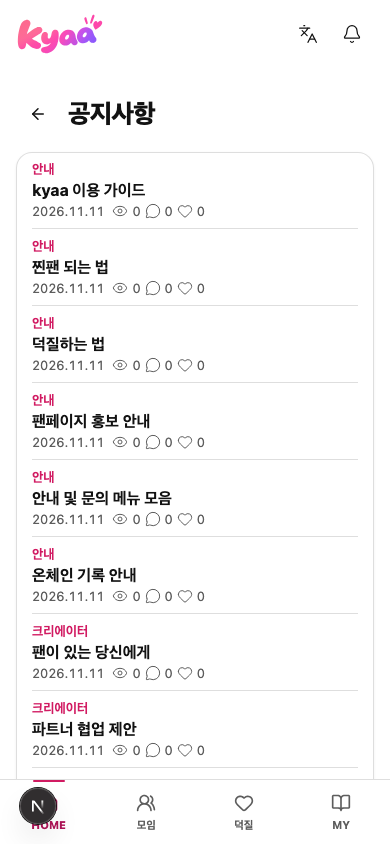
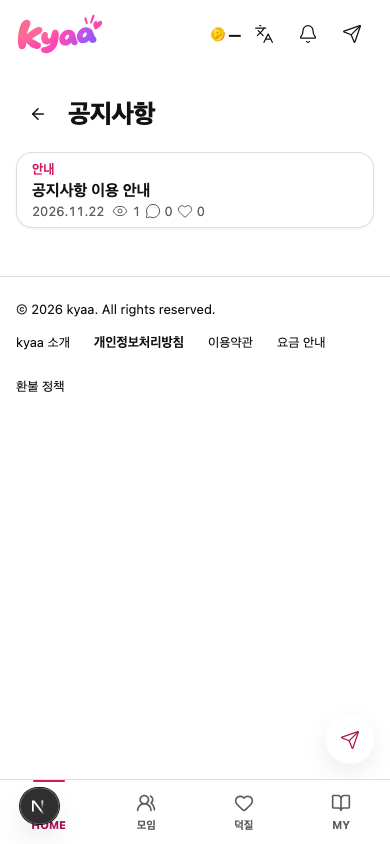
팬페이지 고정 공지의 수치 전달과 로컬 캡처 검증

diff --git a/apps/web/features/groups/ui/creator-group-home.tsx b/apps/web/features/groups/ui/creator-group-home.tsx
@@ -82,7 +82,7 @@ export function CreatorGroupHome({celebrity,locale,channelId,passportId,owned,on
   <section className={homeStyles.stories}>
    <header className={homeStyles.storiesHeader}><FanHeading>{fanStories[locale]}</FanHeading><FanSectionLink href={returnTo}>{viewAllText(locale)}</FanSectionLink></header>
    <div className={homeStyles.toolbar}><FanTabs variant='chip' label={fanStories[locale]} current={filter} items={filters}/><EarnBadgeCorner action='post' locale={locale}><FanAction href={writeHref} variant='primary' trailingIcon={<Pencil/>}>{m.write}</FanAction></EarnBadgeCorner></div>
-   {feed?<>{feed.items.length?<FanSurface as='div' appearance='list' className={homeStyles.rows}>{[...feed.items.filter(item=>item.kind==='notice'),...feed.items.filter(item=>item.kind!=='notice')].map(item=>{const row=itemView(item);return <FanPostRow key={`${item.kind}:${item.id}`} href={row.href} locale={locale} title={row.title||feedCopy(locale).readPost} thumbnail={thumbnailOf(item)} avatar={item.kind==='fan_post'?item.author.avatarUrl:item.kind==='cheer'?item.avatarUrl:undefined} avatarArtist={'artist' in row&&row.artist} pageImage={rowPageImage} notice={item.kind==='notice'} commentCount={row.count} author={row.name} authorTier={item.kind === "fan_post" ? item.author.tier : undefined} authorArtist={'artist' in row&&row.artist} reactedBy={item.kind==='fan_post'&&item.artistReacted?celebrity.name:undefined} time={row.date} density='home'/>;})}</FanSurface>:<FanState inline compact kind='empty' title={noPostsText(locale)}/>}{(feed.items.length>0||cursors.length>0||hasNext)&&<nav className={styles.creatorPagination} aria-label={t.more}><button type='button' aria-label={locale==='ko'?'이전 페이지':'Previous page'} disabled={!cursors.length} onClick={previous}><ChevronLeft size={18}/></button><button type='button' disabled={!cursors.length} onClick={previous}>{cursors.length||1}</button><span aria-current='page'>{cursors.length+1}</span>{hasNext&&<button type='button' onClick={next}>{cursors.length+2}</button>}<button type='button' aria-label={locale==='ko'?'다음 페이지':'Next page'} disabled={!hasNext} onClick={next}><ChevronRight size={18}/></button></nav>}</>:failed?<FanState inline compact kind='error' title={t.error} actions={<FanAction variant='text' onClick={()=>lanes.forEach(lane=>lane.retry())}>{t.retry}</FanAction>}/>:<FanSkeletonRows rows={5} variant='post'/>}
+   {feed?<>{feed.items.length?<FanSurface as='div' appearance='list' className={homeStyles.rows}>{[...feed.items.filter(item=>item.kind==='notice'),...feed.items.filter(item=>item.kind!=='notice')].map(item=>{const row=itemView(item);return <FanPostRow key={`${item.kind}:${item.id}`} href={row.href} locale={locale} title={row.title||feedCopy(locale).readPost} thumbnail={thumbnailOf(item)} avatar={item.kind==='fan_post'?item.author.avatarUrl:item.kind==='cheer'?item.avatarUrl:undefined} avatarArtist={'artist' in row&&row.artist} pageImage={rowPageImage} notice={item.kind==='notice'} commentCount={row.count} likes={item.kind==='notice'?item.likeCount:undefined} views={item.kind==='notice'?item.viewCount:undefined} author={row.name} authorTier={item.kind === "fan_post" ? item.author.tier : undefined} authorArtist={'artist' in row&&row.artist} reactedBy={item.kind==='fan_post'&&item.artistReacted?celebrity.name:undefined} time={row.date} density='home'/>;})}</FanSurface>:<FanState inline compact kind='empty' title={noPostsText(locale)}/>}{(feed.items.length>0||cursors.length>0||hasNext)&&<nav className={styles.creatorPagination} aria-label={t.more}><button type='button' aria-label={locale==='ko'?'이전 페이지':'Previous page'} disabled={!cursors.length} onClick={previous}><ChevronLeft size={18}/></button><button type='button' disabled={!cursors.length} onClick={previous}>{cursors.length||1}</button><span aria-current='page'>{cursors.length+1}</span>{hasNext&&<button type='button' onClick={next}>{cursors.length+2}</button>}<button type='button' aria-label={locale==='ko'?'다음 페이지':'Next page'} disabled={!hasNext} onClick={next}><ChevronRight size={18}/></button></nav>}</>:failed?<FanState inline compact kind='error' title={t.error} actions={<FanAction variant='text' onClick={()=>lanes.forEach(lane=>lane.retry())}>{t.retry}</FanAction>}/>:<FanSkeletonRows rows={5} variant='post'/>}
    <CreatorBoardFooter searchLabel={t.search} onSearch={value=>{setCursors([]);setSearch(value.normalize('NFC'));}}/>
   </section>
   {!brand&&<BannerSlot slot='fanpage_second' locale={locale}/>}

diff --git a/apps/web/features/fan-posts/ui/compact-feed-pinned.test.tsx b/apps/web/features/fan-posts/ui/compact-feed-pinned.test.tsx
@@ -21,9 +21,9 @@ afterEach(() => { feedFixture.read = undefined; cleanup(); });
 const notices = (items: unknown[], all = true) => { groupResource.value = { data: { items, nextCursor: null }, error: false, loading: false }; return renderHook(() => useGroupBoardNotices(pageId, "ko", { all })).result.current.items; };
 
 it("reads active notices of the page from the existing posts API and links each to its detail", () => {
-  const rows = notices([notice]);
+  const rows = notices([{ ...notice, commentCount: 0, viewCount: 19, likeCount: 4 }]);
   expect(groupResource.url).toBe(`/api/groups/${pageId}/posts?category=notice&sort=recent&limit=3`);
-  expect(rows).toEqual([expect.objectContaining({ id: postId, title: "운영자 공지 제목", author: "운영자", href: `/pages/groups/${pageId}?locale=ko&tab=board&post=${postId}` })]);
+  expect(rows).toEqual([expect.objectContaining({ id: postId, commentCount: 0, viewCount: 19, likeCount: 4, title: "운영자 공지 제목", author: "운영자", href: `/pages/groups/${pageId}?locale=ko&tab=board&post=${postId}` })]);
 });
 
 it("returns nothing while loading, when empty, on failure and without a page id", () => {

diff --git a/apps/web/features/groups/ui/group-board-notices.ts b/apps/web/features/groups/ui/group-board-notices.ts
@@ -7,7 +7,12 @@ import {useGroupResource} from './use-group-resource';
 
 /** The posts API accepts limit 1-100 (default 30); a board shows at most this many operator notices above the feed. */
 export const BOARD_NOTICE_LIMIT=3;
-const noticesSchema=groupPostsSchema.extend({items:z.array(groupPostsSchema.shape.items.element.extend({commentCount:z.number().int().nonnegative().optional()}))});
+const optionalCount = z.number().int().nonnegative().optional();
+const noticesSchema = groupPostsSchema.extend({
+  items: z.array(groupPostsSchema.shape.items.element.extend({
+    commentCount: optionalCount, likeCount: optionalCount, viewCount: optionalCount,
+  })),
+});
 const parseNotices=(value:unknown)=>noticesSchema.parse(value);
 
 /** Active operator notices of a group page (group_posts, category notice). `all` caps the list at BOARD_NOTICE_LIMIT; the notice filter omits the limit so the API default (30) applies.

diff --git a/apps/web/components/fan-ui/notice-counts.tsx b/apps/web/components/fan-ui/notice-counts.tsx
@@ -7,6 +7,7 @@ import styles from "./notice-counts.module.css";
 export function NoticeCounts({ locale, views, comments, likes }: {
   locale: AppLocale; views?: number | null; comments?: number; likes?: number | null;
 }) {
+  if (views == null && comments == null && likes == null) return null;
   const counts = [[views, Eye, "viewsLabel"], [comments, MessageCircle, "commentsLabel"], [likes, Heart, "likesLabel"]] as const;
   return <span className={styles.counts}>{counts.map(([value, icon, label]) => {
     if (value == null) return null;
